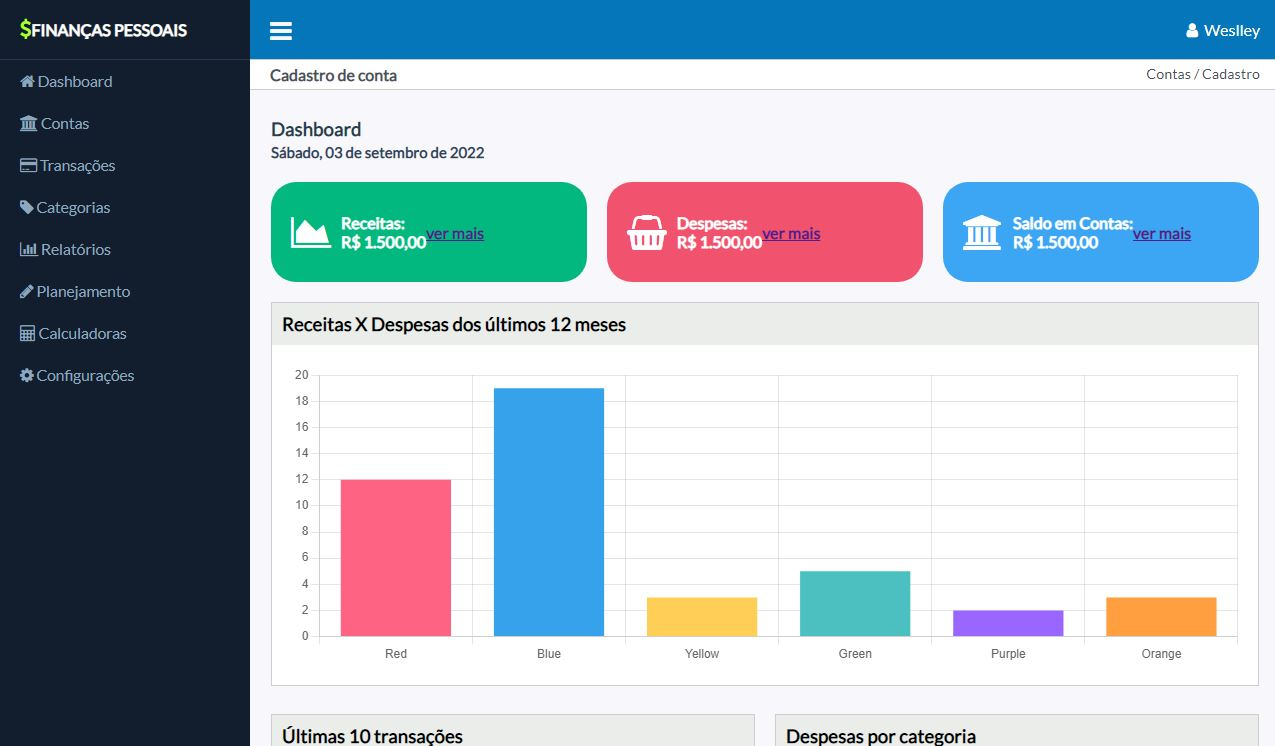
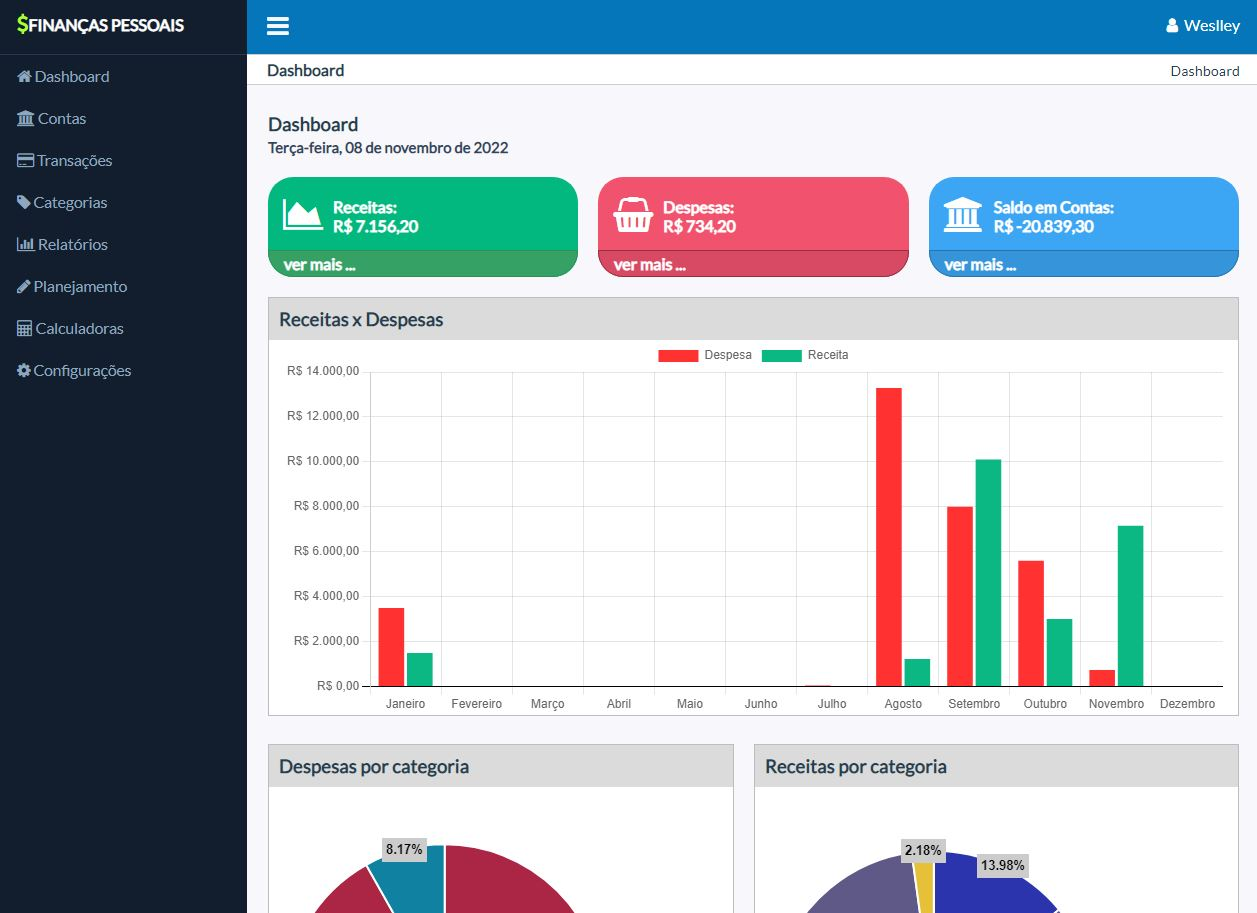
Conclusão

diff --git a/app/model/entity/Conta.php b/app/model/entity/Conta.php
@@ -58,11 +58,11 @@ class Conta extends Record
         try {
             Transaction::open('db');
 
-            $sql1 = "SELECT (IFNULL(montante,0) + (SELECT IFNULL(SUM(valor),0) FROM transacao WHERE id_usuario = ".UsuarioSession::get('id')." AND tipo = 'receita' AND id_conta = {$this->data['idConta']} AND DATE(data_trans) <= DATE('{$anoMes}')) - (SELECT IFNULL(SUM(valor),0) FROM transacao WHERE id_usuario = ".UsuarioSession::get('id')." AND tipo = 'despesa' AND id_conta = {$this->data['idConta']} AND DATE(data_trans) <= DATE('{$anoMes}'))) total FROM conta WHERE id_usuario = ".UsuarioSession::get('id')." AND idConta = {$this->data['idConta']}";
+            $sql1 = "SELECT (IFNULL(montante,0) + (SELECT IFNULL(SUM(valor),0) FROM transacao WHERE id_usuario = ".UsuarioSession::get('id')." AND tipo = 'receita' AND status_trans = 'fechado' AND id_conta = {$this->data['idConta']} AND DATE(data_trans) <= DATE('{$anoMes}')) - (SELECT IFNULL(SUM(valor),0) FROM transacao WHERE id_usuario = ".UsuarioSession::get('id')." AND tipo = 'despesa' AND status_trans = 'fechado' AND id_conta = {$this->data['idConta']} AND DATE(data_trans) <= DATE('{$anoMes}'))) total FROM conta WHERE id_usuario = ".UsuarioSession::get('id')." AND idConta = {$this->data['idConta']}";
             //-
-            $sql2 = "SELECT IFNULL(SUM(valor),0) AS total FROM transferencia WHERE id_usuario = ".UsuarioSession::get('id')." AND id_conta_origem = {$this->data['idConta']} AND DATE(data_transf) <= DATE('{$anoMes}')";
+            $sql2 = "SELECT IFNULL(SUM(valor),0) AS total FROM transferencia WHERE id_usuario = ".UsuarioSession::get('id')." AND id_conta_origem = {$this->data['idConta']} AND status_transf = 'fechado' AND DATE(data_transf) <= DATE('{$anoMes}')";
             //+
-            $sql3 = "SELECT IFNULL(SUM(valor),0) AS total FROM transferencia WHERE id_usuario = ".UsuarioSession::get('id')." AND id_conta_destino = {$this->data['idConta']} AND DATE(data_transf) <= DATE('{$anoMes}')";
+            $sql3 = "SELECT IFNULL(SUM(valor),0) AS total FROM transferencia WHERE id_usuario = ".UsuarioSession::get('id')." AND id_conta_destino = {$this->data['idConta']} AND status_transf = 'fechado' AND DATE(data_transf) <= DATE('{$anoMes}')";
 
 
             $conn = Transaction::get();

diff --git a/app/view/relatorios/relatorio_pizza.php b/app/view/relatorios/relatorio_pizza.php
@@ -361,21 +361,39 @@
     const config = {
         type: 'doughnut',
         data: data,
+        plugins: [ChartDataLabels],
         options:{
             // oculta a label(legenda) do gráfico
             plugins: {
                 legend: {
                     display: false
-                }
-            },
-            tooltips: {
-                callbacks: {
-                    label: function(tooltipItem, data) {
-                        return tooltipItem.data.toFixed(2).replace(/\d(?=(\d{3})+\.)/g, '$&,');
+                },
+                datalabels: {
+                    formatter: function(value, context) {
+                        return   (value /<?= array_sum(explode(',',$arr_total)) ?>*100).toFixed(2) +'%';
+    
+                        //return   'R$ '+ value.toLocaleString('pt-br', {minimumFractionDigits: 2})+' | '+(value /100*100).toFixed(2) +'%';
+                        //'R$ '+ value.toLocaleString('pt-br', {minimumFractionDigits: 2})+' | '+
+                       
+                    },
+                    color: 'black',
+                    backgroundColor: '#ccc',
+                    font:{
+                        size:12,
+                        weight: 'bold'
+                    }
+                    ,anchor:'center'
+                    //,rotation: -6
+                },
+                tooltip:{
+                    callbacks: {
+                        label: (value,context) =>{
+                        // console.log(value);
+                            return value.label+': R$ '+value.parsed.toLocaleString('pt-br', {minimumFractionDigits: 2});
+                        }
                     }
                 }
-            } 
-            //,cutout: 160 //esperssura do gráfico
+            }
         }
     };
     const myChart = new Chart(

diff --git a/app/view/planejamento/list_planejamentoMensal.php b/app/view/planejamento/list_planejamentoMensal.php
@@ -67,7 +67,7 @@ body {font-family: Arial;}
 }
 
 #inserir-plan-person{
-    min-width: 200px;
+    min-width: calc(50% - 20px);
     height: 200px;
     border: 1px solid lightgrey;
     border-radius: 15px;
@@ -89,7 +89,7 @@ body {font-family: Arial;}
 .item-perso
 {
     border-radius: 15px;
-    min-width: 250px;
+    min-width: calc(50% - 20px);
     padding: 10px;
     margin: 10px;
     border: 1px solid lightgrey;
@@ -166,11 +166,11 @@ body {font-family: Arial;}
                 </div>
             </div>
             <p style="font-size: 0.85em;color:grey;font-weight:bold;margin-top:10px;"><?= formataDataBR($planS->data_inicio) ?> até <?= formataDataBR($planS->data_fim) ?></p>
-            <div style="margin-top: 15px;">
+            <div style="margin-top: 15px; display:flex; justify-content: space-around;">
                 <span style="display:inline-block; text-align: center;">R$ <?= formatoMoeda($planS->valor) ?> <br> Meta</span>
-                <b style="display: inline-bloc;margin: 0 5px;">-</b>
+                <b style="display: inline-bloc;margin: 0 5px; font-size:25px;">-</b>
                 <span style="display:inline-block; text-align: center;color:red;">R$ <?= formatoMoeda($planS->getTotalGasto(" DATE('{$planS->data_inicio}') AND DATE('{$planS->data_fim}')")) ?> <br> Valor Gasto</span>
-                <b style="display: inline-bloc;margin: 0 5px;">=</b>
+                <b style="display: inline-bloc;margin: 0 5px; font-size:20px;">=</b>
                 <span style="display:inline-block; text-align: center;color:green;">R$ <?= formatoMoeda($planS->resultado('PESONALIZADO')) ?> <br> Restam</span>
             </div>
             <div style="margin-top: 15px;">

diff --git a/app/view/relatorios/relatorio_linha.php b/app/view/relatorios/relatorio_linha.php
@@ -348,14 +348,33 @@ console.log(getWeekFromStartDay(-7));
             const config = {
                 type: 'line',
                 data: data,
+                //plugins: [ChartDataLabels],
                 options:{
                     // oculta a label(legenda) do gráfico
                     plugins: {
                         legend: {
                             display: false
+                        },
+                        tooltip:{
+                            callbacks: {
+                                label: (value,context) =>{
+                                    //console.log(value);
+                                    return 'R$ '+parseFloat(value.raw).toLocaleString('pt-br', {minimumFractionDigits: 2});
+                                }
+                            }
                         }
                     },
-                    locale: 'pt-BR'
+                    //locale: 'pt-BR',
+                    scales:{
+                        y:{
+                            beginAtZero: true,
+                            ticks:{
+                                callback: (value,index,values) => {
+                                    return 'R$ '+ value.toLocaleString('pt-br', {minimumFractionDigits: 2});
+                                }
+                            }
+                        }
+                    }
                 }
             };
 

diff --git a/app/view/relatorios/relatorio_barra.php b/app/view/relatorios/relatorio_barra.php
@@ -205,6 +205,16 @@ function handler()
       ]
     },
     options: {
+        plugins: {
+            tooltip:{
+                callbacks: {
+                    label: (value,context) =>{
+                        //console.log(value);
+                        return value.label+': R$ '+value.raw.toLocaleString('pt-br', {minimumFractionDigits: 2});
+                    }
+                }
+            }
+        },
       title: {
         display: true,
         text: 'Population growth (millions)'
@@ -220,6 +230,11 @@ function handler()
                     }else{
                         return 'rgba(0,0,0,0.1)';//Colorindo as outras linhas do gráfico
                     }
+                }
+            },
+            ticks:{
+                callback: (value,index,values) => {
+                  return 'R$ '+ value.toLocaleString('pt-br', {minimumFractionDigits: 2});
                 }
             }
         }

diff --git a/app/model/entity/Planejamento.php b/app/model/entity/Planejamento.php
@@ -172,10 +172,10 @@ class Planejamento extends Record
             foreach(array_diff($categorias,$arrCate) as $chave => $valor)
             {
                 $addPlanCate = new PlanejamentoCate();
-                $addPlanCate->valorMeta = FormataMoeda::moedaParaFloat($_POST['item'][$chave]);
+                $addPlanCate->valorMeta = FormataMoeda::moedaParaFloat($valores[$chave]);
                 $addPlanCate->id_categoria = (int) $valor;
                 $addPlanCate->id_planejamento = (int) $_GET['id'];
-                
+
                 if($addPlanCate->store())
                 {
                     $contaADD++;
@@ -215,8 +215,6 @@ class Planejamento extends Record
                 $conta++;
             }
         }
-
-
 
         if($resultado or $conta > 0 or $contaADD > 0 or $contaRemove > 0)
         {

diff --git a/app/utils/EnviarEmail.php b/app/utils/EnviarEmail.php
@@ -37,7 +37,8 @@ class EnviarEmail{
 
             //Recipients
             $mail->setFrom($this->Username, 'Alteracao de senha - Finanças pessoais');
-            $mail->addAddress('weslley_silvas@hotmail.com', 'Weslley silva');     //Add a recipient
+            
+            $mail->addAddress($this->EmailDestinatario, '');     //Add a recipient
 
             $mail->addReplyTo($this->Username, 'Information');
 

diff --git a/README.md b/README.md
@@ -1,4 +1,13 @@
 # AppFinancas2
- Projeto TCC
+Projeto TCC
+
+Versão do PHP: 8.1.6
+Tipo de servidor: MariaDB
+Versão do servidor: 10.4.24-MariaDB
+Conjunto de caracteres do servidor: UTF-8 Unicode (utf8mb4)
+Servidor web: Apache/2.4.53 (Win64)
+
+Gerênciador de dependências: COMPOSER
+Bibliotecas: PHPMAILER, CHART.JS
 
 ![alt text](https://github.com/WeslleySimoes/AppFinancas2/blob/main/dashboard.JPG?raw=true)
